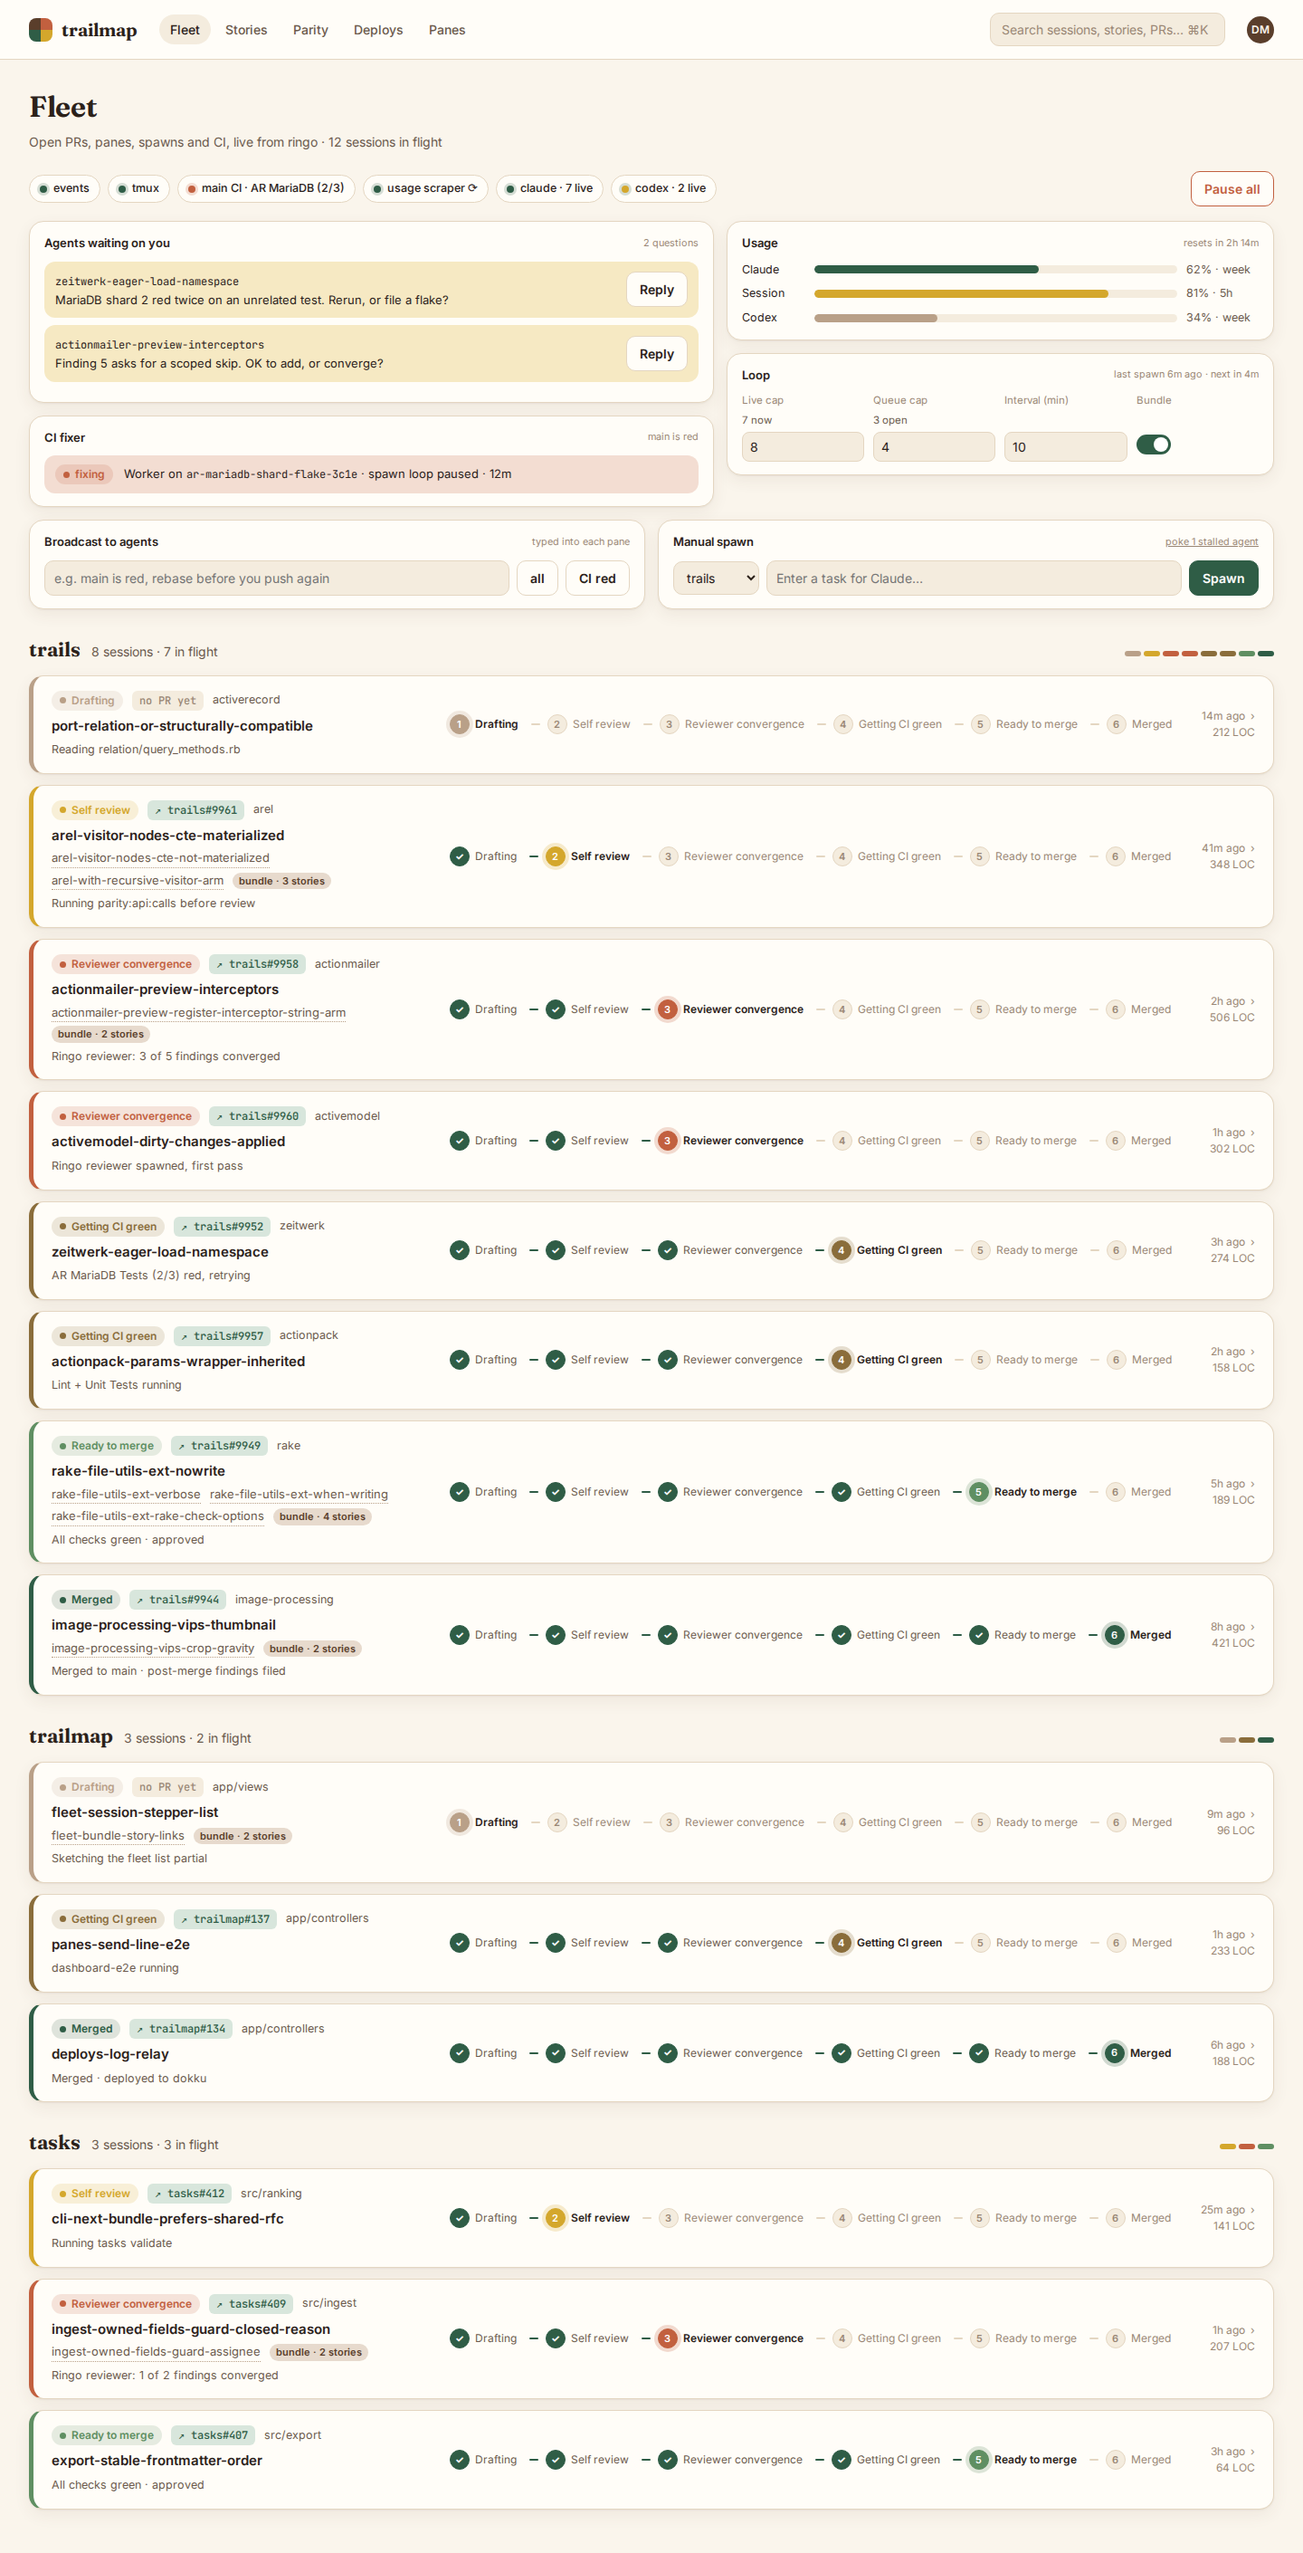
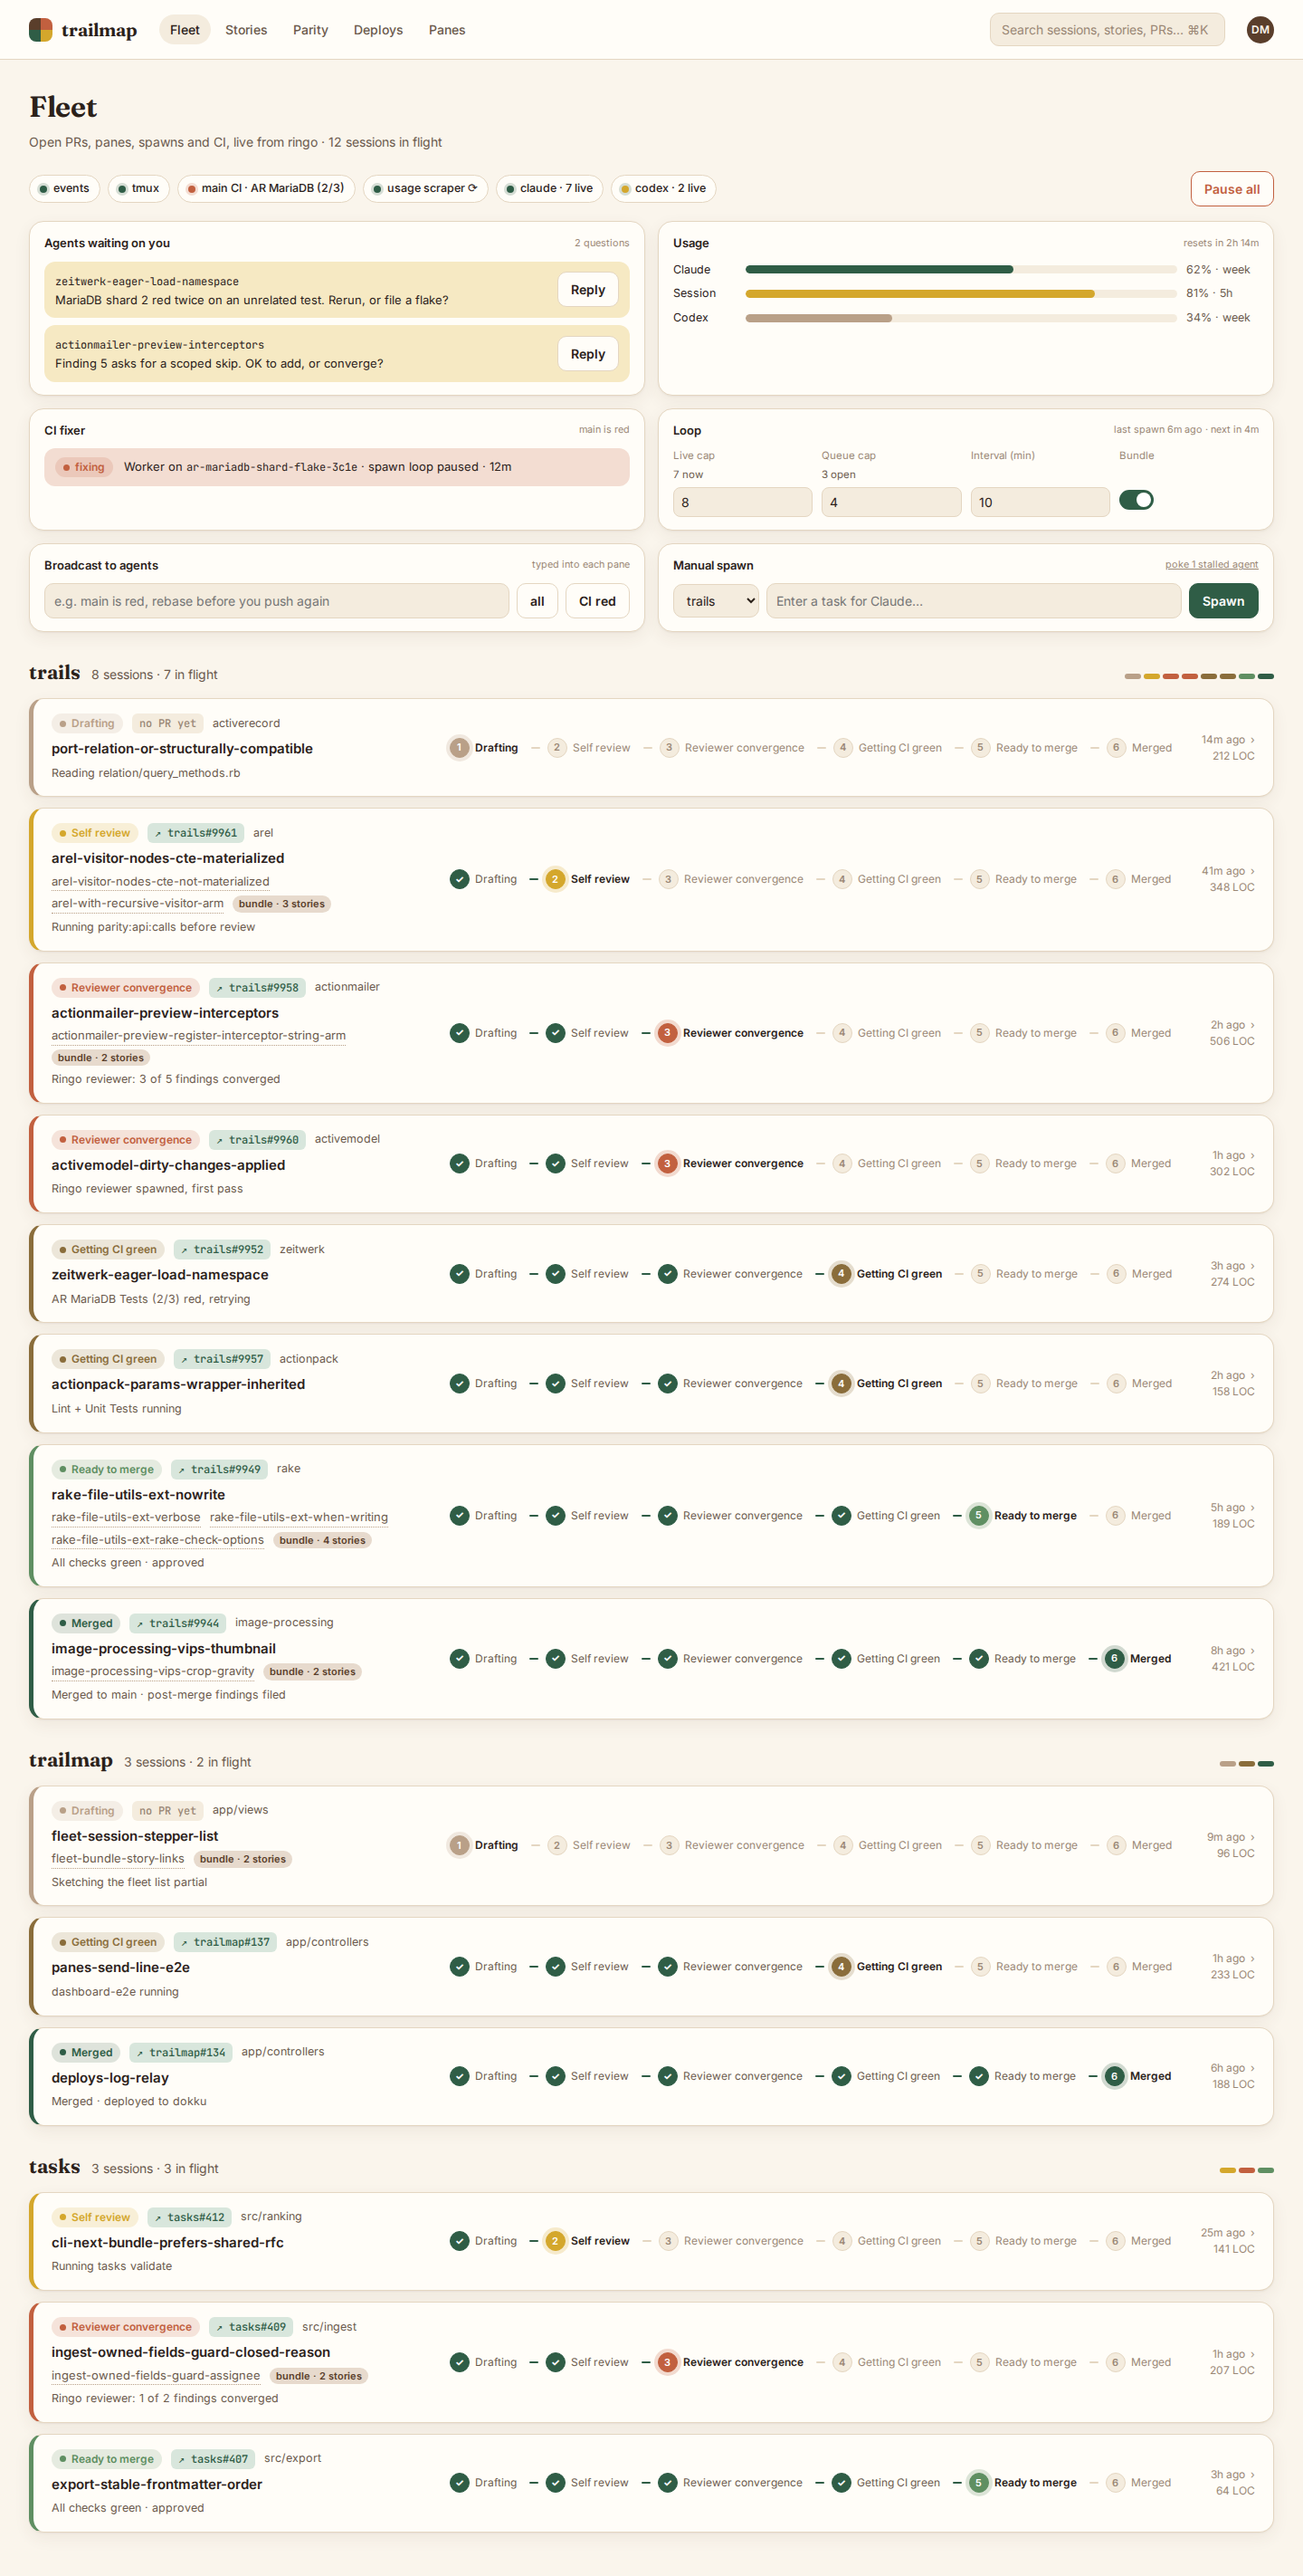
docs(concepts): drop pipeline-board screenshots; align concept B's top panels on one grid

diff --git a/concepts/redesign/b-stepper-list.html b/concepts/redesign/b-stepper-list.html
@@ -13,11 +13,11 @@
 .pill.warn .led { background: var(--mustard); }
 .status .grow { flex: 1; }
 .btn.danger { border-color: var(--terracotta); color: var(--terracotta); }
-.panels { display: grid; grid-template-columns: 1.25fr 1fr; gap: 14px; margin-bottom: 14px; }
-.panel { background: var(--surface); border: 1px solid var(--line); border-radius: 16px; padding: 14px 16px; box-shadow: var(--shadow); }
+.panels { display: grid; grid-template-columns: 1fr 1fr; gap: 14px; margin-bottom: 24px; align-items: stretch; }
+.panel { display: flex; flex-direction: column; background: var(--surface); border: 1px solid var(--line); border-radius: 16px; padding: 14px 16px; box-shadow: var(--shadow); }
 .panel h2 { margin: 0 0 10px; font-size: 13px; font-weight: 600; display: flex; justify-content: space-between; align-items: center; }
 .panel h2 small { font-weight: 400; color: var(--ink-3); }
-.stack { display: flex; flex-direction: column; gap: 14px; }
+.ask:last-child { margin-bottom: 0; }
 .ask { display: grid; grid-template-columns: 1fr auto; gap: 10px; padding: 10px 12px; border-radius: 12px; background: var(--mustard-soft); margin-bottom: 8px; align-items: center; }
 .ask q { display: block; color: var(--ink); font-size: 13px; margin-top: 2px; }
 .ask q::before, .ask q::after { content: ""; }
@@ -30,7 +30,6 @@
 .loop input[type=number] { font: inherit; font-size: 14px; color: var(--ink); background: var(--surface-2); border: 1px solid var(--line); border-radius: 8px; padding: 5px 8px; width: 100%; }
 .toggle { width: 38px; height: 22px; border-radius: 99px; background: var(--forest); position: relative; margin-top: 3px; }
 .toggle::after { content: ""; position: absolute; right: 3px; top: 3px; width: 16px; height: 16px; border-radius: 50%; background: #fff; }
-.actions { display: grid; grid-template-columns: 1fr 1fr; gap: 14px; margin-bottom: 24px; }
 .inline { display: flex; gap: 8px; align-items: center; }
 .inline input, .inline select { font: inherit; background: var(--surface-2); border: 1px solid var(--line); border-radius: 10px; padding: 8px 10px; color: var(--ink); }
 .inline input { flex: 1; }
@@ -75,11 +74,10 @@
   .status .pill { flex: none; }
   .status .grow { display: none; }
   .status .btn { flex: none; }
-  .panels, .actions { grid-template-columns: 1fr; }
+  .panels { grid-template-columns: 1fr; }
   .loop { grid-template-columns: 1fr 1fr; }
   .inline { flex-wrap: wrap; }
   .inline input { min-width: 0; flex-basis: 100%; }
-  .actions .inline select { flex: 1; }
   .card-main { grid-template-columns: 1fr auto; gap: 12px; padding: 14px; }
   .card-main .stepper { grid-column: 1 / -1; grid-row: 2; }
   .step .lbl { display: none; }
@@ -130,23 +128,20 @@ document.getElementById("app").innerHTML = topbar() + `
     <button class="btn danger">Pause all</button>
   </div>
   <div class="panels">
-    <div class="stack">
       <div class="panel">
         <h2>Agents waiting on you <small>2 questions</small></h2>
         <div class="ask"><div><span class="mono">zeitwerk-eager-load-namespace</span><q>MariaDB shard 2 red twice on an unrelated test. Rerun, or file a flake?</q></div><button class="btn">Reply</button></div>
         <div class="ask"><div><span class="mono">actionmailer-preview-interceptors</span><q>Finding 5 asks for a scoped skip. OK to add, or converge?</q></div><button class="btn">Reply</button></div>
       </div>
       <div class="panel">
-        <h2>CI fixer <small>main is red</small></h2>
-        <div class="fixer"><span class="chip stage stage-ringo"><span class="dot"></span>fixing</span><span>Worker on <span class="mono">ar-mariadb-shard-flake-3c1e</span> · spawn loop paused · 12m</span></div>
-      </div>
-    </div>
-    <div class="stack">
-      <div class="panel">
         <h2>Usage <small>resets in 2h 14m</small></h2>
         <div class="usage-row"><span>Claude</span><div class="meter"><i style="width:62%;background:var(--forest)"></i></div><span class="muted">62% · week</span></div>
         <div class="usage-row"><span>Session</span><div class="meter"><i style="width:81%;background:var(--mustard)"></i></div><span class="muted">81% · 5h</span></div>
         <div class="usage-row" style="margin:0"><span>Codex</span><div class="meter"><i style="width:34%;background:var(--clay)"></i></div><span class="muted">34% · week</span></div>
+      </div>
+      <div class="panel">
+        <h2>CI fixer <small>main is red</small></h2>
+        <div class="fixer"><span class="chip stage stage-ringo"><span class="dot"></span>fixing</span><span>Worker on <span class="mono">ar-mariadb-shard-flake-3c1e</span> · spawn loop paused · 12m</span></div>
       </div>
       <div class="panel">
         <h2>Loop <small>last spawn 6m ago · next in 4m</small></h2>
@@ -157,9 +152,6 @@ document.getElementById("app").innerHTML = topbar() + `
           <label>Bundle<span>&nbsp;</span><span class="toggle"></span></label>
         </div>
       </div>
-    </div>
-  </div>
-  <div class="actions">
     <div class="panel"><h2>Broadcast to agents <small>typed into each pane</small></h2>
       <div class="inline"><input placeholder="e.g. main is red, rebase before you push again"><button class="btn">all</button><button class="btn">CI red</button></div></div>
     <div class="panel"><h2>Manual spawn <small><a href="#">poke 1 stalled agent</a></small></h2>
